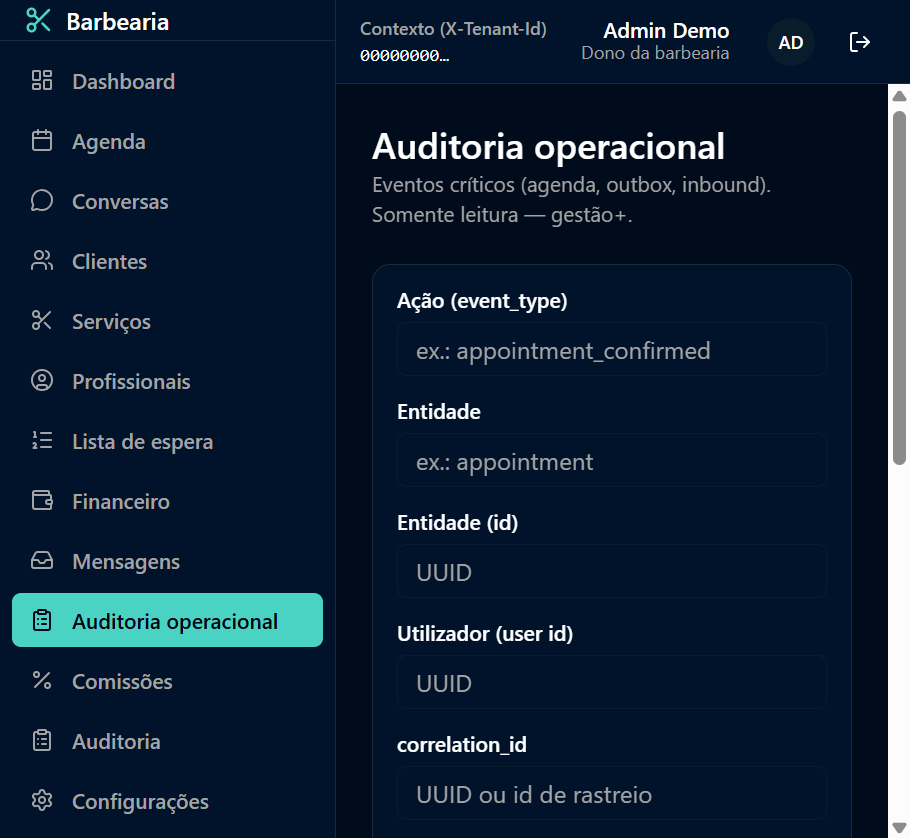
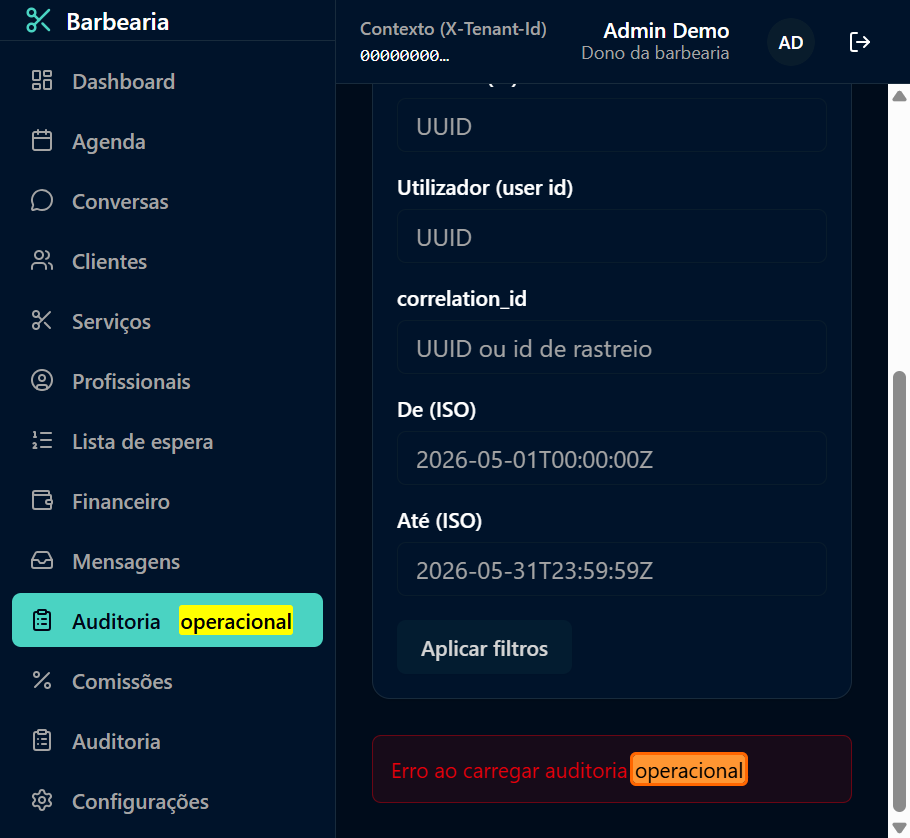
fix(web): erro real em auditoria operacional quando API falha (P18)
Oculta tabela e empty state em isError; mensagens via getApiErrorMessage (502/503/504); testes e evidência P18 atualizada.

diff --git a/apps/web/src/features/auditoria/OperationalAuditPage.test.tsx b/apps/web/src/features/auditoria/OperationalAuditPage.test.tsx
@@ -1,6 +1,7 @@
 import { QueryClient, QueryClientProvider } from '@tanstack/react-query';
+import axios from 'axios';
 import { MemoryRouter } from 'react-router-dom';
-import { render, screen, waitFor } from '@testing-library/react';
+import { render, screen, waitFor, fireEvent } from '@testing-library/react';
 import { describe, expect, it, vi, beforeEach } from 'vitest';
 import { OperationalAuditPage } from './OperationalAuditPage';
 import * as auditService from './operationalAuditService';
@@ -51,10 +52,36 @@ describe('OperationalAuditPage', () => {
     await waitFor(() => expect(screen.getByText('appointment_confirmed')).toBeInTheDocument());
   });
 
-  it('shows error state', async () => {
-    vi.mocked(auditService.listOperationalAuditEvents).mockRejectedValue(new Error('403'));
+  it('shows error banner without empty or table when API fails', async () => {
+    const networkError = new axios.AxiosError('Network Error', 'ERR_NETWORK');
+    vi.mocked(auditService.listOperationalAuditEvents).mockRejectedValue(networkError);
     renderPage();
     await waitFor(() => expect(screen.getByTestId('operational-audit-error')).toBeInTheDocument());
+    expect(screen.getByText('Sem ligação ao servidor. Verifique a rede e tente novamente.')).toBeInTheDocument();
+    expect(screen.queryByTestId('operational-audit-table')).not.toBeInTheDocument();
+    expect(screen.queryByTestId('operational-audit-empty')).not.toBeInTheDocument();
+    expect(screen.queryByText('Sem resultados')).not.toBeInTheDocument();
+    expect(screen.queryByText('Sem registos')).not.toBeInTheDocument();
+  });
+
+  it('hides stale table when refetch fails after prior success', async () => {
+    vi.mocked(auditService.listOperationalAuditEvents)
+      .mockResolvedValueOnce({
+        data: [sampleRow],
+        total: 1,
+        page: 1,
+        limit: 20,
+      })
+      .mockRejectedValueOnce(new axios.AxiosError('Network Error', 'ERR_NETWORK'));
+
+    renderPage();
+    await waitFor(() => expect(screen.getByText('appointment_confirmed')).toBeInTheDocument());
+
+    fireEvent.click(screen.getByRole('button', { name: 'Aplicar filtros' }));
+
+    await waitFor(() => expect(screen.getByTestId('operational-audit-error')).toBeInTheDocument());
+    expect(screen.queryByText('appointment_confirmed')).not.toBeInTheDocument();
+    expect(screen.queryByTestId('operational-audit-table')).not.toBeInTheDocument();
   });
 
   it('prefills correlation_id from URL', () => {

diff --git a/apps/web/src/features/auditoria/OperationalAuditPage.tsx b/apps/web/src/features/auditoria/OperationalAuditPage.tsx
@@ -7,6 +7,7 @@ import { Input } from '@/components/ui/input';
 import { Label } from '@/components/ui/label';
 import { DataTable, type Column } from '@/components/shared/DataTable';
 import { EmptyState } from '@/components/shared/EmptyState';
+import { getApiErrorMessage } from '@/lib/apiErrorMessage';
 import { formatDate } from '@/lib/utils';
 import type { OperationalAuditEventRow } from '@/types/api';
 import { buildOperationalAuditQuery } from './operationalAuditPageModel';
@@ -78,6 +79,7 @@ export function OperationalAuditPage() {
   const { data, isLoading, isError, error, refetch } = useQuery({
     queryKey: ['operational-audit-events', filters],
     queryFn: () => listOperationalAuditEvents(filters),
+    retry: false,
   });
 
   return (
@@ -190,18 +192,21 @@ export function OperationalAuditPage() {
           className="rounded-md border border-destructive/40 bg-destructive/10 p-3 text-sm text-destructive"
           data-testid="operational-audit-error"
         >
-          {(error as Error)?.message ?? 'Erro ao carregar auditoria operacional.'}
+          {getApiErrorMessage(error, 'Erro ao carregar auditoria operacional.')}
         </div>
       )}
 
-      {!isLoading && !isError && !data?.data.length ? (
-        <EmptyState
-          icon={ClipboardList}
-          title="Sem registos"
-          description="Ajuste filtros ou aguarde atividade auditada."
-        />
-      ) : (
-        <div className="rounded-xl border bg-card shadow-sm">
+      {!isError &&
+        (!isLoading && !data?.data.length ? (
+          <div data-testid="operational-audit-empty">
+            <EmptyState
+              icon={ClipboardList}
+              title="Sem registos"
+              description="Ajuste filtros ou aguarde atividade auditada."
+            />
+          </div>
+        ) : (
+          <div className="rounded-xl border bg-card shadow-sm" data-testid="operational-audit-table">
           <DataTable
             columns={columns}
             data={data?.data ?? []}
@@ -213,8 +218,8 @@ export function OperationalAuditPage() {
             emptyTitle="Sem resultados"
             emptyDescription="Tente outros filtros."
           />
-        </div>
-      )}
+          </div>
+        ))}
     </div>
   );
 }

diff --git a/apps/web/src/lib/apiErrorMessage.ts b/apps/web/src/lib/apiErrorMessage.ts
@@ -53,6 +53,9 @@ export function getApiErrorMessage(err: unknown, fallback = FALLBACK): string {
       if (code === 'TENANT_MISMATCH') return API_ERROR_MESSAGES.TENANT_MISMATCH!;
       return API_ERROR_MESSAGES.FORBIDDEN!;
     }
+    if (status === 502 || status === 503 || status === 504) {
+      return 'Sem ligação ao servidor. Verifique a rede e tente novamente.';
+    }
     const msg = typeof data?.message === 'string' ? data.message.trim() : '';
     if (msg && !isUnsafeTechnicalMessage(msg)) {
       return msg;

diff --git a/docs/evidencias/piloto_staging_05/04_roteiro_qa_bloco2_auditoria.md b/docs/evidencias/piloto_staging_05/04_roteiro_qa_bloco2_auditoria.md
@@ -57,7 +57,7 @@ LIMIT 3;
 | B2-10 | Filtros sem resultado | Empty state «Sem registos» |
 | B2-11 | Login **atendente** | Menu sem «Auditoria operacional» |
 | B2-12 | Atendente: URL `/operacao/auditoria` | Forbidden ou redirect; API `GET operational-audit-events` → 403 |
-| B2-13 | Parar API e recarregar página | Banner erro visível |
+| B2-13 | Parar API → `/operacao/auditoria` → recarregar ou «Aplicar filtros» | Banner «Sem ligação ao servidor…»; **não** mostrar «Sem resultados» nem «Sem registos» |
 | B2-14 | Metadata na UI | Sem tokens/Bearer em claro (sanitizado) |
 | B2-15 | API integração: tenant A não vê eventos tenant B | Ver `05_evidencia_cross_tenant_operational_audit.md` |
 
@@ -91,7 +91,7 @@ Evento em `operational_audit_events` deve guardar `correlation_id = qa-corr-b2-0
 | `P15_metadata_sanitizada.png` | Coluna metadata sem segredos |
 | `P16_estado_vazio_auditoria.png` | Empty state |
 | `P17_attendant_sem_acesso.png` | Atendente: menu ou forbidden |
-| `P18_estado_erro_auditoria.png` | API indisponível |
+| `P18_estado_erro_auditoria.png` | API indisponível — **só** tela Auditoria, banner erro, sem tabela |
 | `P19_pr_bloco2_ci_verde.png` | PR Bloco 2 checks verdes GitHub |
 
 Ver `prints/README.md` (secção Bloco 2).

diff --git a/docs/evidencias/piloto_staging_05/20_relatorio_bloco2_auditoria.md b/docs/evidencias/piloto_staging_05/20_relatorio_bloco2_auditoria.md
@@ -34,12 +34,18 @@ Capturas reais Docker `:3001` (rebuild API/Web com Bloco 2). Ver `prints/P11_*.p
 | P15 | Tabela com metadata truncada |
 | P16 | Empty state «Sem registos» |
 | P17 | Atendente → `/forbidden` (sem item no menu) |
-| P18 | Erro API indisponível (banner vermelho; RTL cobre auditoria) |
+| P18 | **Corrigido:** API parada → banner «Sem ligação ao servidor…» em `/operacao/auditoria`; **sem** tabela «Sem resultados» nem empty state |
+
+### Correção P18 (ressalva PO)
+
+- **Problema:** com API indisponível, a UI mostrava «Sem resultados» (DataTable) em vez de erro.
+- **Correção:** `OperationalAuditPage` não renderiza tabela nem empty quando `isError`; mensagem via `getApiErrorMessage` (igual Mensagens).
+- **Testes:** `OperationalAuditPage.test.tsx` — falha de rede + refetch após sucesso (sem dados obsoletos na UI).
 
 ## PR
 
-Abrir contra `piloto-staging-01` apenas — ver `21_pr_body.md`.
+Abrir contra `piloto-staging-01` apenas — ver `21_pr_body.md` e `04_saida_pr_bloco2_abrir.txt`.
 
 ## Parecer fábrica
 
-Bloco 2 **pronto para aceite PO/merge** após CI verde no PR. Blocos 3–10 não iniciados.
+Bloco 2 **aguarda aceite PO** após revisão do PR, CI verde e print P18 atualizado. Blocos 3–10 não iniciados.

diff --git a/docs/evidencias/piloto_staging_05/03_matriz_aceite.md b/docs/evidencias/piloto_staging_05/03_matriz_aceite.md
@@ -20,7 +20,9 @@
 | 2 | Auditoria | Metadata sanitizada | OK | `sanitize-operational-audit-metadata.ts` |
 | 2 | Auditoria | Cross-tenant | OK | `operational-audit.isolation.integration.test.ts` |
 | 2 | Auditoria | RBAC manager+ | OK | `rbac.ts`, `RoleGuard` |
-| 2 | Auditoria | Testes Web render/empty/error | OK | `OperationalAuditPage.test.tsx` |
+| 2 | Auditoria | Testes Web render/empty/error | OK | `OperationalAuditPage.test.tsx` (incl. API indisponível sem «Sem resultados») |
+| 2 | Auditoria | P18 erro real em `/operacao/auditoria` | OK | `prints/P18_estado_erro_auditoria.png` (banner, sem tabela vazia) |
+| 2 | Auditoria | Aceite PO / merge | PEND | PR vs `piloto-staging-01` + CI verde pós-correção P18 |
 | 3 | Gerencial | KPIs + CSV | PEND | |
 | 4 | Cliente 360 | Histórico RBAC | PEND | |
 | 5 | Waitlist | Fila + conversão | PEND | |

diff --git a/docs/evidencias/piloto_staging_05/prints/README.md b/docs/evidencias/piloto_staging_05/prints/README.md
@@ -30,7 +30,8 @@ Capturas **PNG/JPG** reais do portal Web (não substituir por `.txt`).
 | `P15_metadata_sanitizada.png` | Metadata truncada/sanitizada |
 | `P16_estado_vazio_auditoria.png` | Empty state |
 | `P17_attendant_sem_acesso.png` | Atendente sem acesso |
-| `P18_estado_erro_auditoria.png` | Erro de carregamento |
+| `P18_estado_erro_auditoria.png` | API down em `/operacao/auditoria` — banner erro, sem «Sem resultados» |
+| `P12b_filtro_event_type_tabela.png` | Complemento P12 — tabela filtrada |
 | `P19_pr_bloco2_ci_verde.png` | PR Bloco 2 CI verde |
 
 **Gerar:** `04_roteiro_qa_bloco2_auditoria.md` — Vite `:5173` ou Docker rebuild `:3001`.

diff --git a/docs/evidencias/piloto_staging_05/21_pr_body.md b/docs/evidencias/piloto_staging_05/21_pr_body.md
@@ -14,7 +14,8 @@ PILOTO-05 **Bloco 2** — auditoria operacional read-only com `correlation_id`, 
 
 - [ ] CI 8/8 verde no PR
 - [ ] `04_roteiro_qa_bloco2_auditoria.md` — casos B2-01 a B2-15
-- [ ] Prints P11–P18 em `docs/evidencias/piloto_staging_05/prints/`
+- [ ] Prints P11–P19 em `docs/evidencias/piloto_staging_05/prints/`
+- [ ] **P18:** `/operacao/auditoria` com API indisponível → banner erro (sem «Sem resultados»)
 - [ ] API unit: `npm run test:unit -- src/shared/request-correlation.test.ts src/modules/audit/`
 - [ ] Web: `npm test -- src/features/auditoria/`
 - [ ] Integração: `operational-audit.isolation.integration.test.ts` (CI)
